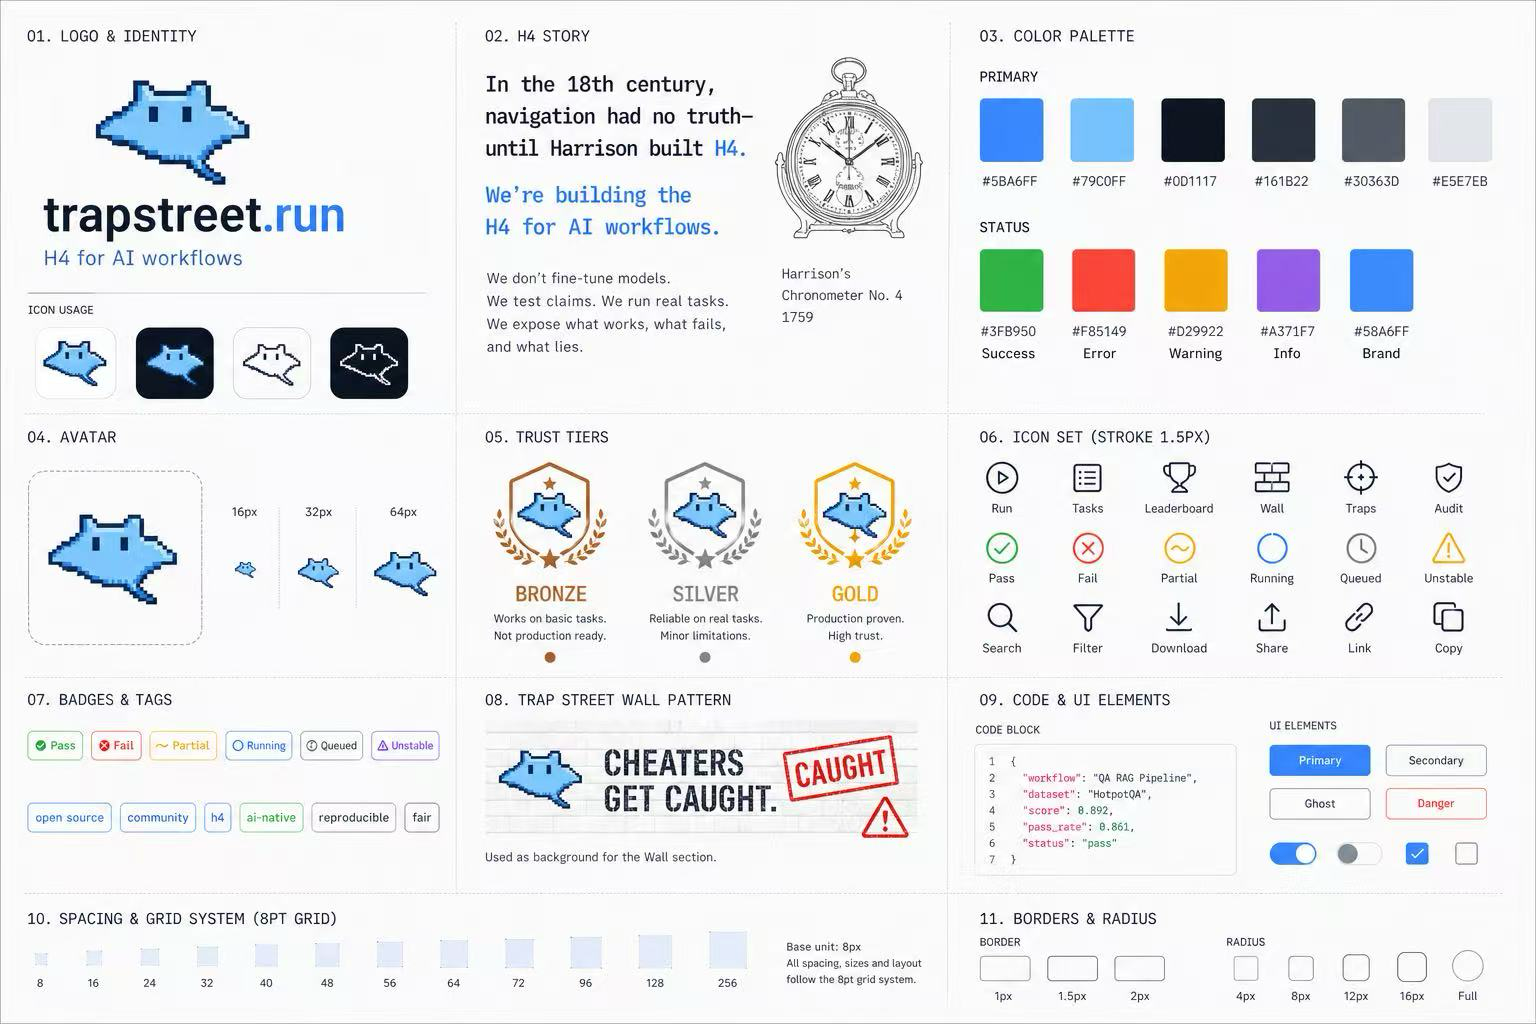
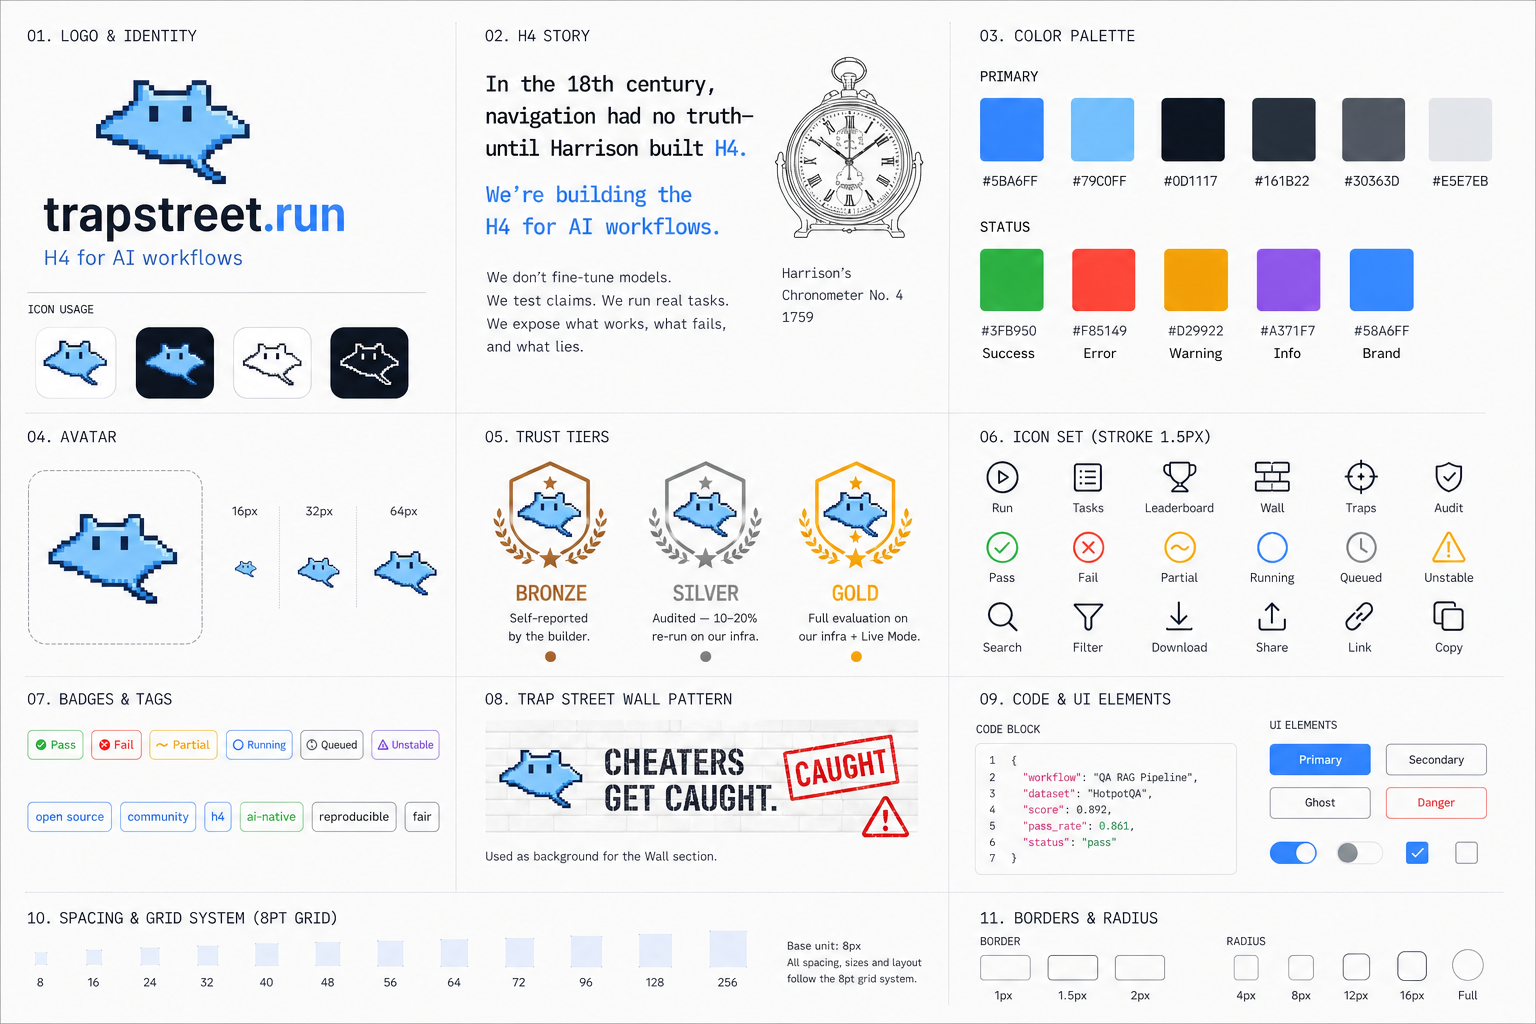
chore(brand): replace brand-sheet-v1.png with CTO-confirmed corrected revision
Resolves the previously logged drift items (capability-framed tier
copy, wordmark color split). Removes "Known drift" reconciliation
section from brand-system.md decision log.

diff --git a/docs/brand-system.md b/docs/brand-system.md
@@ -278,8 +278,4 @@ Avatars/badges: 12px or Full.
 | 2026-04-28 | Adopted Harrison chronometer illustration in H4 Story panel | Reinforces etymology beyond text — designer addition, accepted |
 | 2026-04-28 | Added positioning four-liner ("We don't fine-tune models...") to manifesto | Designer copy contribution; promoted to canonical |
 | 2026-04-28 | Light theme acceptable as primary brand surface (alongside dark) | brand-sheet-v1 ships on light; dark mode parity required for product |
-
-## Known drift from spec — to be reconciled with designer
-
-- **Trust tier copy is capability-framed** ("Works on basic tasks", "Production proven"). Spec requires evidence-framed copy ("Self-reported", "Audited", "Full eval"). Visual badges OK; only the descriptors need rewriting.
-- **Wordmark color split simplified to all-blue** in brand-sheet-v1. Spec recorded the split (`trapstreet` neutral + `.run` blue). Either update spec to all-blue or have designer restore split — pending CTO call.
+| 2026-04-28 | brand-sheet-v1.png replaced with corrected revision | CTO-confirmed alignment: tier copy + wordmark drift items resolved |
